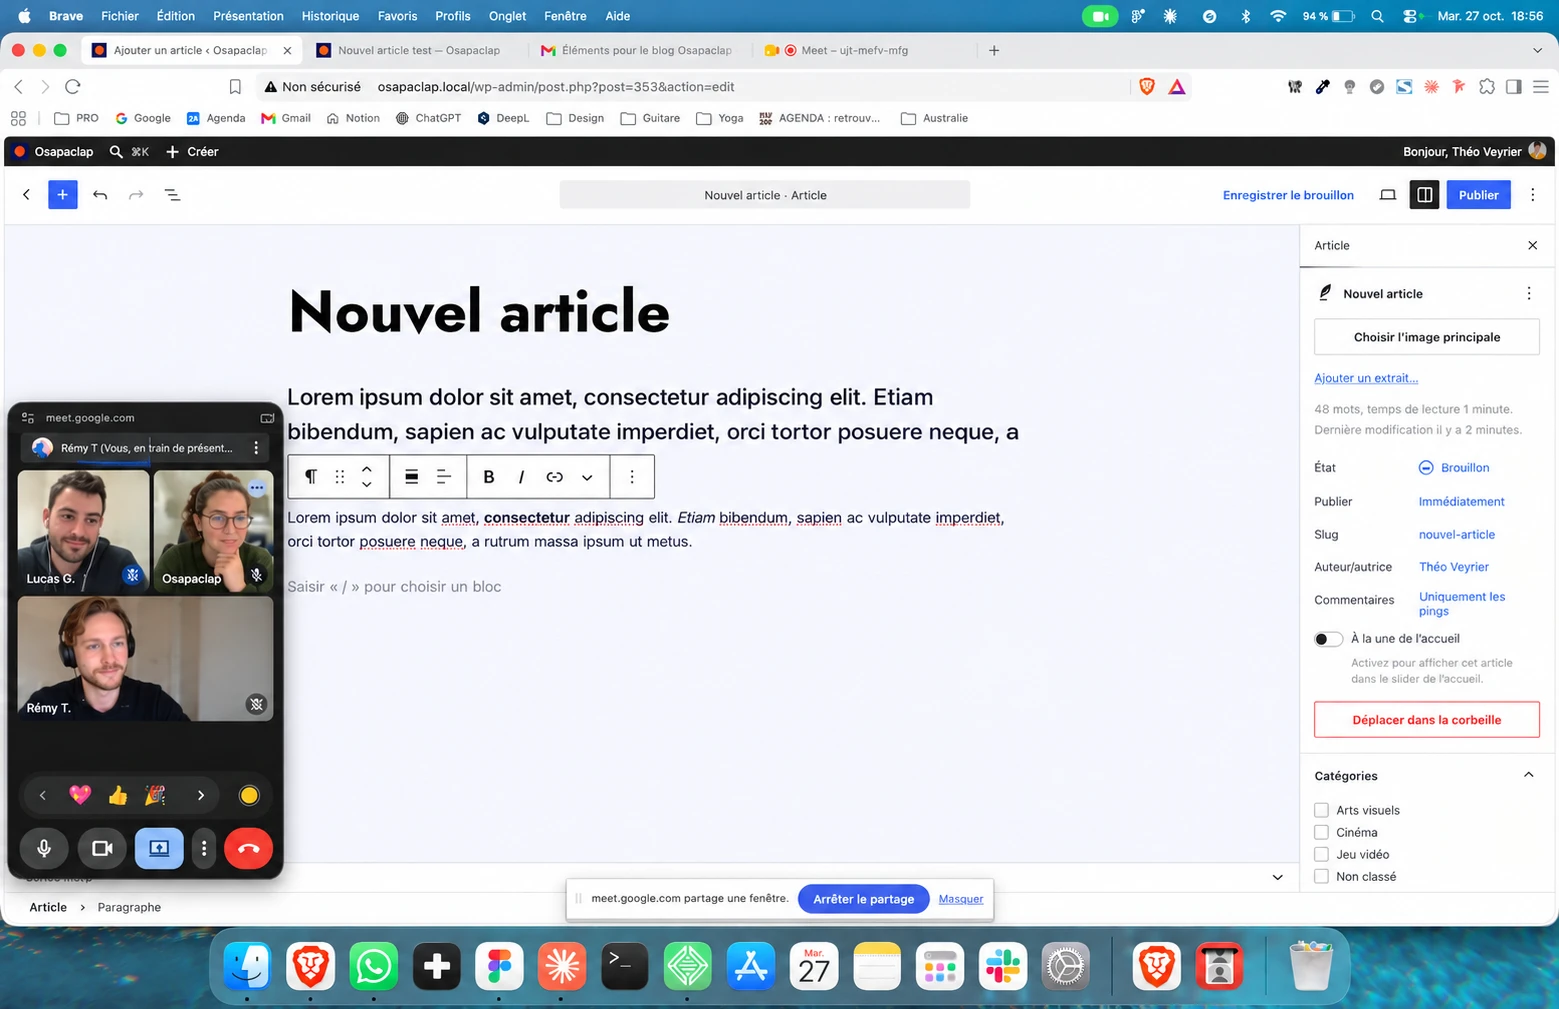
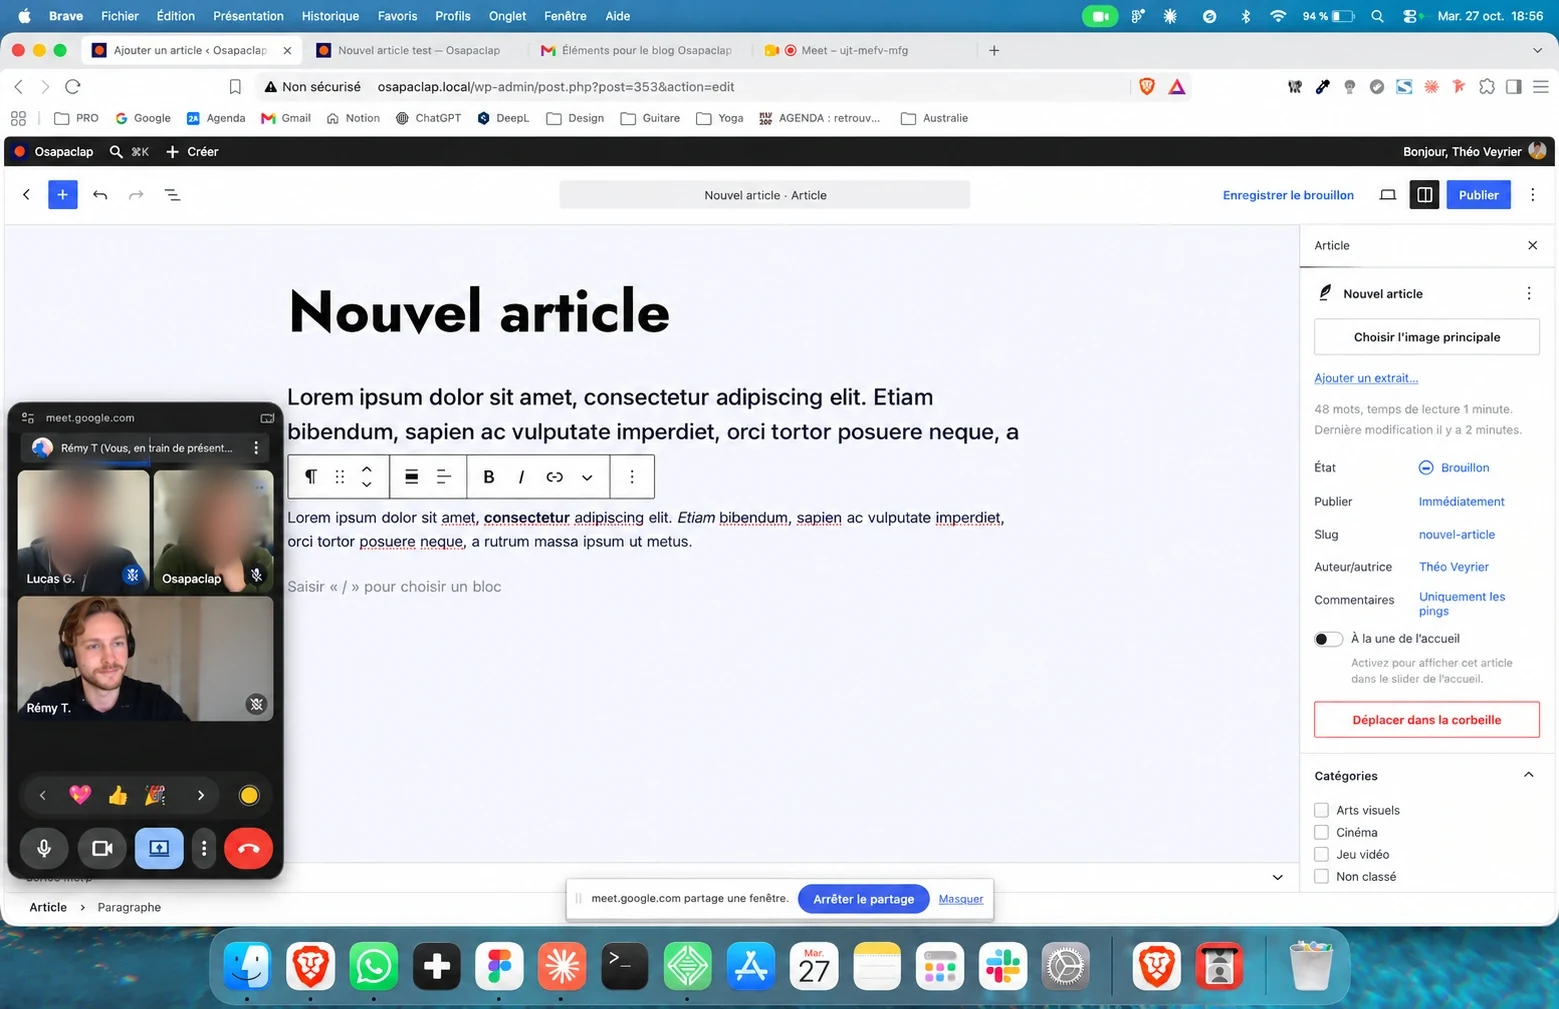
Osapaclap case study: blur two faces in training image, drop association validation sentence (EN/FR)

Changed region(s): [[0.0, 0.4301, 0.1847, 0.5837]]

diff --git a/fr/osapaclap.html b/fr/osapaclap.html
@@ -1315,7 +1315,7 @@
         <span class="cs-label">Étape 4 · Spécifications techniques</span>
         <h2 class="cs-heading">Des maquettes au cahier des charges</h2>
       </div>
-      <p class="cs-body cs-sys-lede reveal reveal-delay-1">Une maquette montre l'apparence d'une page, pas son fonctionnement. Avant d'écrire la moindre ligne de code, je les ai donc traduites en spécifications : quels types de contenu, quels champs pour chacun, comment ils se relient, et ce que les éditeurs peuvent modifier. L'association a validé ce document, le développement a donc démarré sur des bases solides.</p>
+      <p class="cs-body cs-sys-lede reveal reveal-delay-1">Une maquette montre l'apparence d'une page, pas son fonctionnement. Avant d'écrire la moindre ligne de code, je les ai donc traduites en spécifications : quels types de contenu, quels champs pour chacun, comment ils se relient, et ce que les éditeurs peuvent modifier.</p>
       <div class="jflow reveal reveal-delay-2">
         <div class="jflow-step">
           <span class="jflow-tag">Design</span>

diff --git a/osapaclap.html b/osapaclap.html
@@ -1315,7 +1315,7 @@
         <span class="cs-label">Step 4 · Technical specifications</span>
         <h2 class="cs-heading">From templates to specifications</h2>
       </div>
-      <p class="cs-body cs-sys-lede reveal reveal-delay-1">Templates show what a page looks like. Before writing any code, I translated them into specifications: which content types exist, which fields each one needs, how they link to each other and what editors are allowed to change. The association validated this document, so development started on solid ground.</p>
+      <p class="cs-body cs-sys-lede reveal reveal-delay-1">Templates show what a page looks like. Before writing any code, I translated them into specifications: which content types exist, which fields each one needs, how they link to each other and what editors are allowed to change.</p>
       <div class="jflow reveal reveal-delay-2">
         <div class="jflow-step">
           <span class="jflow-tag">Design</span>
